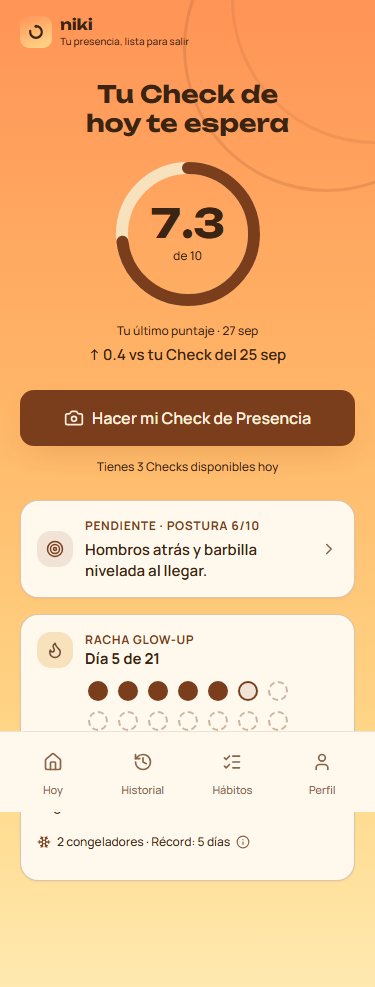
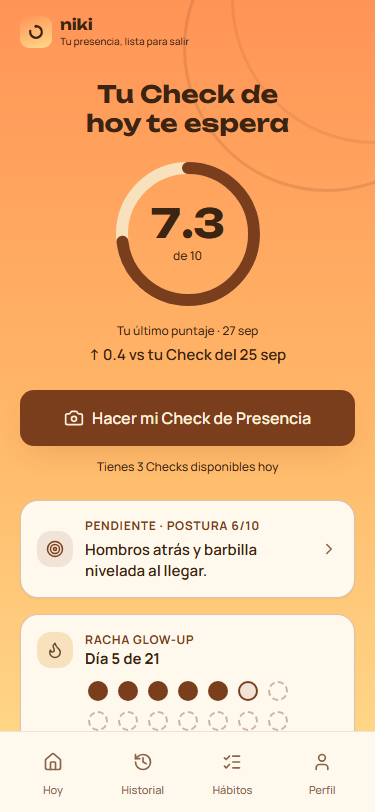
style: pantalla Hoy aprobada por revisor (subtitulo legible, meta del Glow-Up explicada)

diff --git a/components/app/RachaGlowUp.tsx b/components/app/RachaGlowUp.tsx
@@ -142,7 +142,7 @@ export function RachaGlowUp({ estado, hoy }: { estado: EstadoRacha; hoy: string 
       </button>
       {explicar && (
         <p className="text-[12px] leading-[1.45] text-[var(--text-primary)]">
-          Si un día no haces tu Check, un congelador guarda tu racha. Ganas uno cada 7 días seguidos (máximo 2).
+          Al día 21 completas tu Glow-Up. Si un día no haces tu Check, un congelador guarda tu racha; ganas uno cada 7 días seguidos (máximo 2).
         </p>
       )}
     </section>

diff --git a/app/app/layout.tsx b/app/app/layout.tsx
@@ -48,7 +48,7 @@ function MarcaNiki() {
       </span>
       <div className="flex flex-col leading-tight">
         <span className="text-[15px] font-bold text-[var(--text-primary)] [font-family:var(--font-display)]">niki</span>
-        <span className="text-[10px] font-medium text-[var(--text-primary)]">Tu presencia, lista para salir</span>
+        <span className="text-[12px] font-medium text-[var(--text-primary)]">Tu presencia, lista para salir</span>
       </div>
     </div>
   );

diff --git a/ESTADO.md b/ESTADO.md
@@ -1,5 +1,5 @@
 # ESTADO — Niki (AI Image & Outfit Feedback)
-Última actualización: 2026-09-28 | Siguiente sesión: 5ª pasada del revisor sobre Hoy (fixes ya aplicados: barra fija con overflow-x-clip, comparación vs Check anterior, subtítulo) → probar racha + Alto Impacto con foto real → resolver bloqueantes 2-5 del certificado
+Última actualización: 2026-09-28 | Siguiente sesión: probar racha + Alto Impacto con foto real → bloqueantes del certificado que dependen del dueño (correo soporte, compra+reembolso real, Supabase Pro, Vercel Pro)
 
 ▶ CIERRE DE SESIÓN 2026-09-22 — TODO GUARDADO Y SUBIDO (working tree limpio, `git push` al día,
 último commit `1abcc6d`). Resumen de lo que se hizo hoy:
@@ -407,7 +407,7 @@ Niki analiza fotos de cuerpo entero por IA y da feedback instantáneo de outfit,
 - Cuando exista la app interna: montar los screenshots reales en el carrusel de la landing y volver a pasar el revisor-visual para cerrar esa puerta del todo
 
 ## Problemas conocidos ⚠
-- veredicto:hoy — NO LISTA en la 4ª pasada (33/40 · 17/20). Ya aplicados SIN re-revisar (se cortó la sesión por límite de créditos): barra de pestañas fija (overflow-x-hidden → overflow-x-clip en app/app/layout.tsx; medido y=730 en viewport 812 también tras scroll), variación vs Check anterior bajo el anillo, subtítulo "Tu presencia, lista para salir". Falta: 5ª pasada del revisor-visual (docs/revisiones/hoy-375.png + hoy-375-viewport.png).
+- Pantalla Hoy: revisor-visual LISTA 36/40 · 17/20 (5ª pasada) → docs/revisiones/hoy-veredicto.md, captura hoy-375.png (viewport 812).
 - Racha Glow-Up de 21 días y Modo Alto Impacto: CONSTRUIDOS 2026-09-28 (migraciones racha_glowup + habito_registros_delete_own aplicadas; 7 casos de racha probados en SQL; esquema de IA con plan_alto_impacto probado contra la API). Resultado LISTA 37/40·16/20 con ambos bloques. Falta probarlos con una foto real de persona (el dueño) y cerrar el bloqueante 1 del certificado en docs/release/CLAIMS-LEDGER.md.
 - veredicto:paywall — el código del paywall cambió DESPUÉS de su veredicto LISTA (2026-09-28), pero SOLO en 1 línea de copy ("Check de Presencia ilimitado antes de cada salida" → "3 Checks de Presencia al día", por el límite de IA aprobado). Verificado en captura a 375px (cabe en 1 línea, sin huérfanas) → docs/revisiones/paywall-375.png. Se re-lanza el revisor-visual la próxima vez que cambie el layout o más copy del paywall.
 - veredicto:onboarding — CADUCADO según el hook pre-stop (falso positivo, verificado 2026-09-28): el hook compara contra CUALQUIER .tsx más nuevo (app/page.tsx, app/paywall, app/admin), pero `git log -- app/onboarding` muestra que el último cambio del onboarding (2f6aef0, 2026-09-25 18:36) es ANTERIOR al veredicto (e0e2a1e, 18:37). Se re-lanza el revisor solo si se toca app/onboarding.

diff --git a/docs/revisiones/hoy-veredicto.md b/docs/revisiones/hoy-veredicto.md
@@ -1,9 +1,9 @@
-# VEREDICTO revisor-visual — Hoy (M0, pantalla principal) — cuarta pasada
-Fecha: 2026-09-28 15:00
-Screenshot: docs/revisiones/hoy-375.png
-Usabilidad: 33/40
+# VEREDICTO revisor-visual — Hoy (M0, pantalla principal) — quinta pasada
+Fecha: 2026-09-28 16:00
+Screenshot: docs/revisiones/hoy-375-viewport.png
+Usabilidad: 36/40
 Craft: 17/20
 Copy (si vende): N-A
 Fidelidad (si hubo referencia): N-A
-Veredicto: NO LISTA
-Top defectos: 1) [barra de pestañas, app/app/layout.tsx:62 y 93] en docs/revisiones/hoy-375-viewport.png (375x812) la navegación principal NO se ve: está en y=879. La barra tiene `sticky bottom-0`, pero el `overflow-x-hidden` del <main> lo convierte en contenedor de scroll y anula el sticky; el efecto es que en Hoy (y en cualquier pestaña larga) hay que bajar hasta el final para cambiar de sección. No es "parte del flujo por diseño": el código pide sticky y no se cumple -> cambiar `overflow-x-hidden` por `overflow-x-clip` en el <main> (recorta igual y no crea contenedor de scroll) y volver a capturar el viewport de 812px con la barra visible abajo. 2) [anillo héroe "7.3 de 10"] el número está solo, sin interpretación: no dice si mejoró o empeoró ni contra qué (la regla de datos del SO pide insight, no solo la cifra) -> agregar bajo el anillo la variación contra el Check anterior ("↑ 0.4 vs tu Check del 25 sep") o, si solo hay uno, "Tu primer puntaje: la base para medir tu avance". 3) [encabezado, bajo el logo] "Tus ejes de Presencia e Imagen": "ejes" es vocabulario interno del producto, no del usuario, y aparece en todas las pestañas -> cambiarlo por una línea en su idioma ("Tu presencia, lista para salir") o quitarlo y dejar solo el logo.
+Veredicto: LISTA
+Top defectos: (no bloquean; se corrigen en el próximo pulido) 1) [encabezado, bajo "niki"] "Tu presencia, lista para salir" está a 10px (app/app/layout.tsx:51), por debajo del mínimo de 11-13px para labels y difícil de leer sobre el naranja -> subirlo a 12px. 2) [tarjeta Racha Glow-Up] "Día 5 de 21" no dice qué pasa al llegar a 21 (la meta del Glow-Up sin recompensa visible) -> sumar esa promesa a la línea desplegable de congeladores o al detalle ("Al día 21 completas tu Glow-Up"). 3) [captura de página completa docs/revisiones/hoy-375.png] la barra de pestañas aparece a media página: es un efecto de capturar con sticky, no un defecto de la UI -> la evidencia de referencia es la captura del viewport (hoy-375-viewport.png); si hace falta una captura de página completa, tomarla con la barra oculta.
